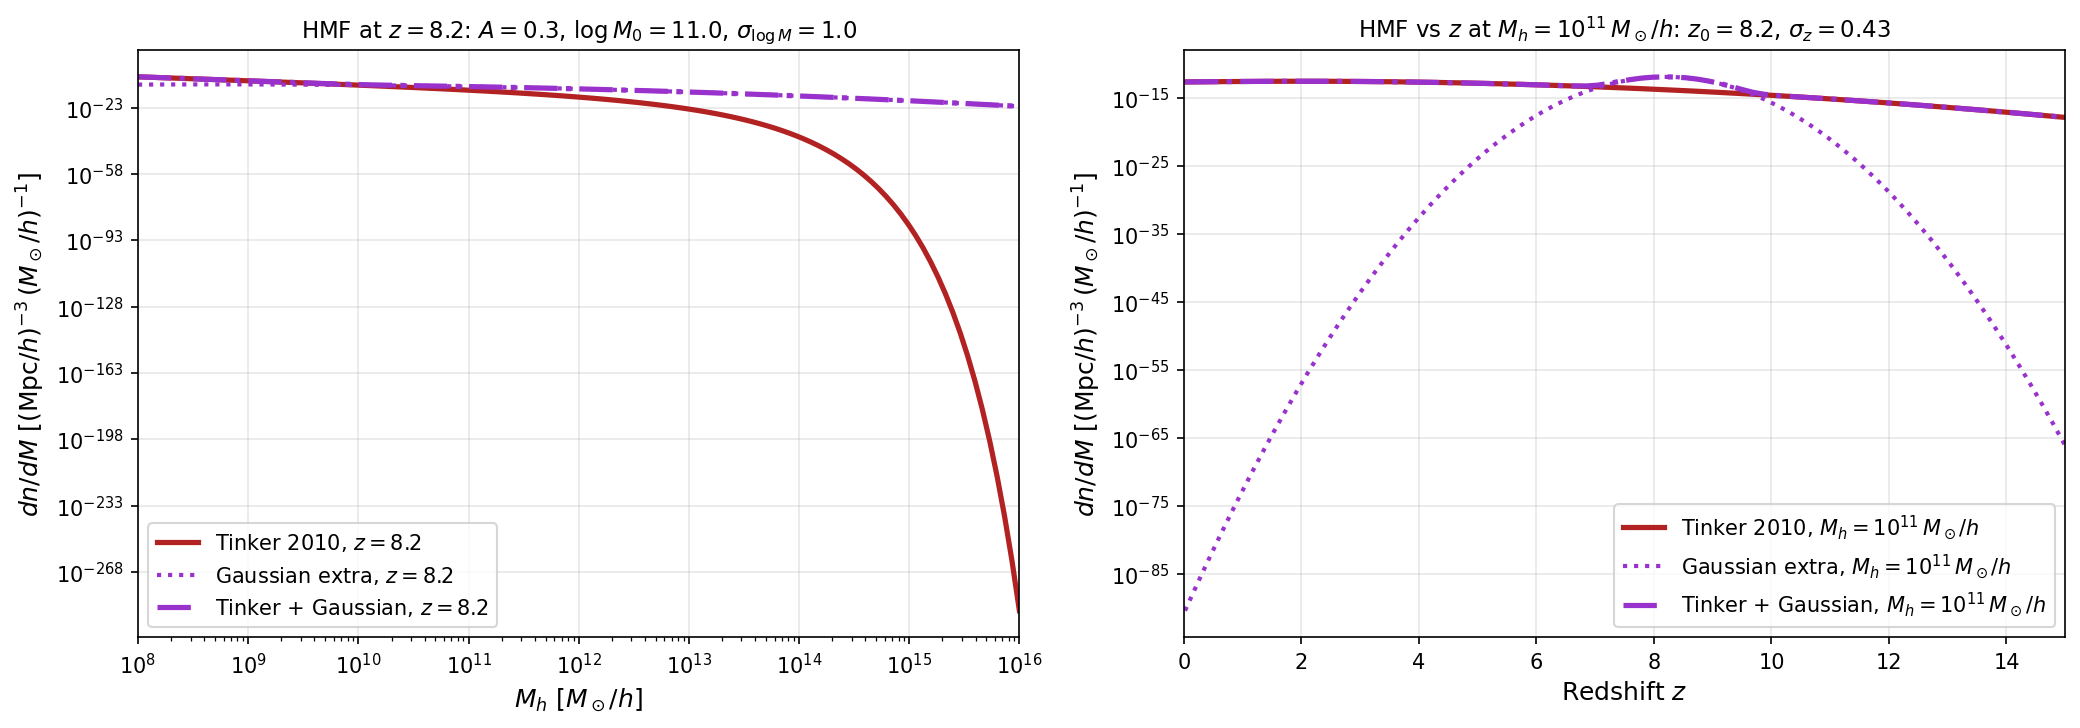
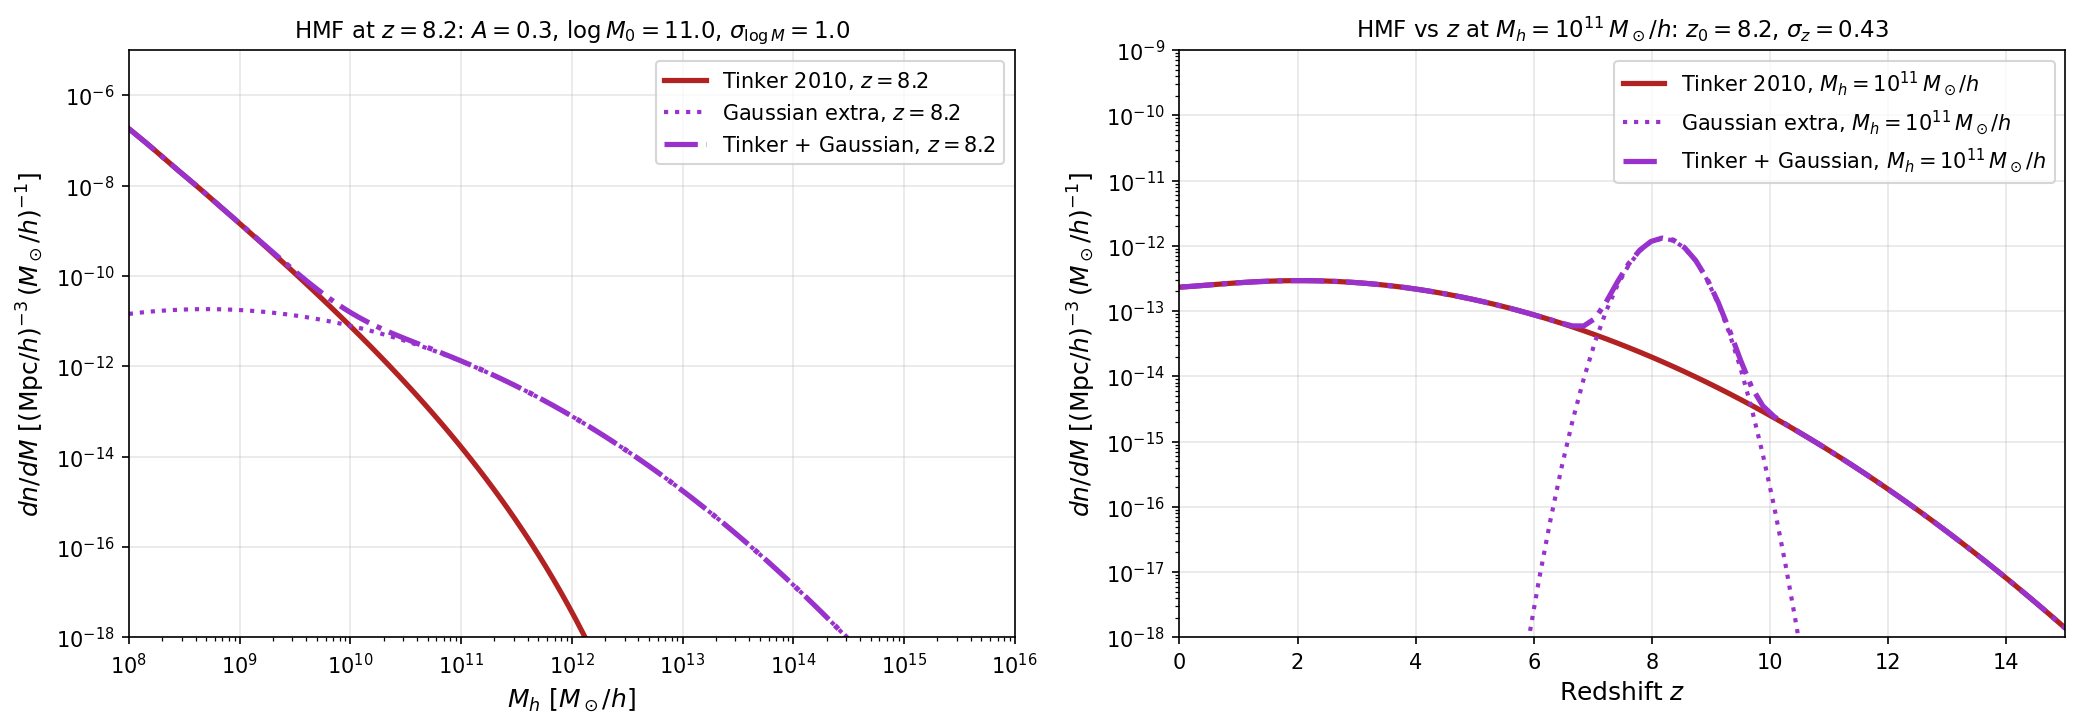
Set explicit ylim on HMF panels; fix collapsed auto-scale
Tinker HMF at z=8.2 reaches ~1e-289 at M=1e16 (double-precision
underflow), causing matplotlib to auto-scale over ~280 decades and
compress all features into a thin strip.

Set explicit y-limits:
  - dn/dM vs M (z=8.2):  ylim = (1e-18, 1e-5)
  - dn/dM vs z (M=1e11): ylim = (1e-18, 1e-9)

Both panels now show the Gaussian bump (peak ~1e-12) and the Tinker
background over a physically meaningful ~10-decade window.

https://claude.ai/code/session_011XzqwZwV4P9fqugRxa6pyS

diff --git a/plot_cmb_lensing.py b/plot_cmb_lensing.py
@@ -423,6 +423,7 @@ ax_hm.loglog(M_hmf, dndM_mod_z82,    'darkorchid', lw=2.5, ls='-.',
 ax_hm.set_xlabel(r'$M_h$ [$M_\odot/h$]', fontsize=12)
 ax_hm.set_ylabel(r'$dn/dM$ [$({\rm Mpc}/h)^{-3}\,(M_\odot/h)^{-1}$]', fontsize=12)
 ax_hm.set_xlim(1e8, 1e16)
+ax_hm.set_ylim(1e-18, 1e-5)
 ax_hm.legend(fontsize=10)
 _gp = GAUSS_PARAMS
 ax_hm.set_title(fr'HMF at $z={z_peak}$: '
@@ -441,6 +442,7 @@ ax_hz.semilogy(z_hmf, dndM_mod_vz,    'darkorchid', lw=2.5, ls='-.',
 ax_hz.set_xlabel(r'Redshift $z$', fontsize=12)
 ax_hz.set_ylabel(r'$dn/dM$ [$({\rm Mpc}/h)^{-3}\,(M_\odot/h)^{-1}$]', fontsize=12)
 ax_hz.set_xlim(0, 15)
+ax_hz.set_ylim(1e-18, 1e-9)
 ax_hz.legend(fontsize=10)
 ax_hz.set_title(fr'HMF vs $z$ at $M_h=10^{{11}}\,M_\odot/h$: '
                 fr'$z_0={_gp["z0"]}$, $\sigma_z={_gp["sigma_z"]}$',
